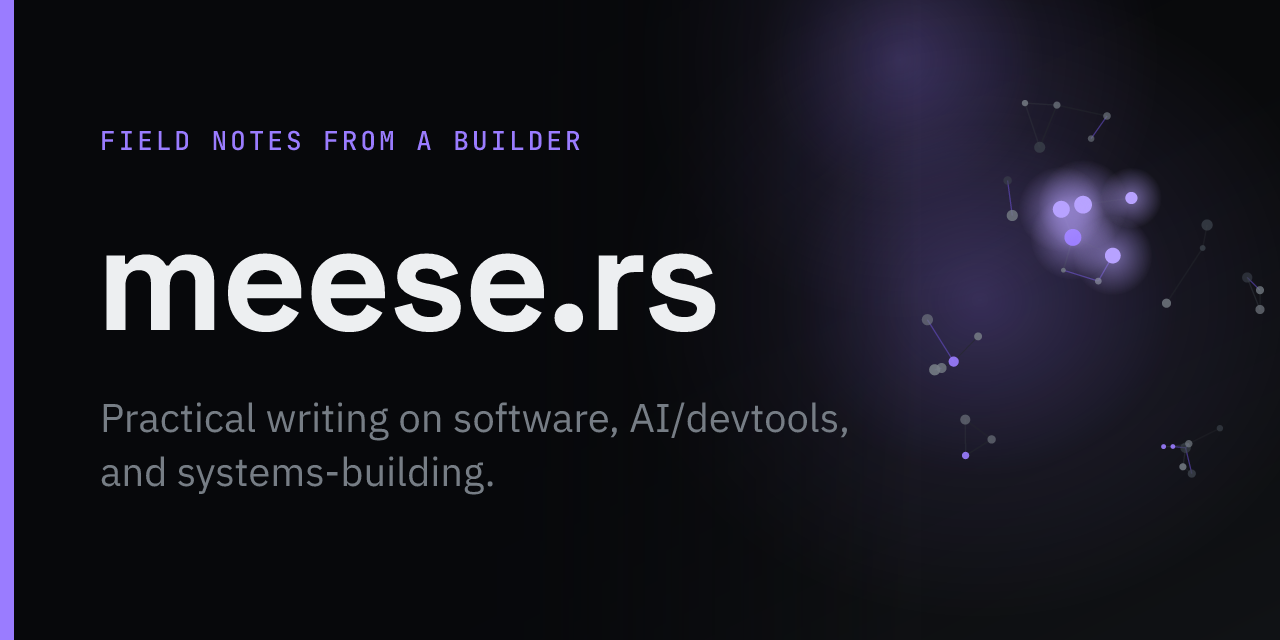
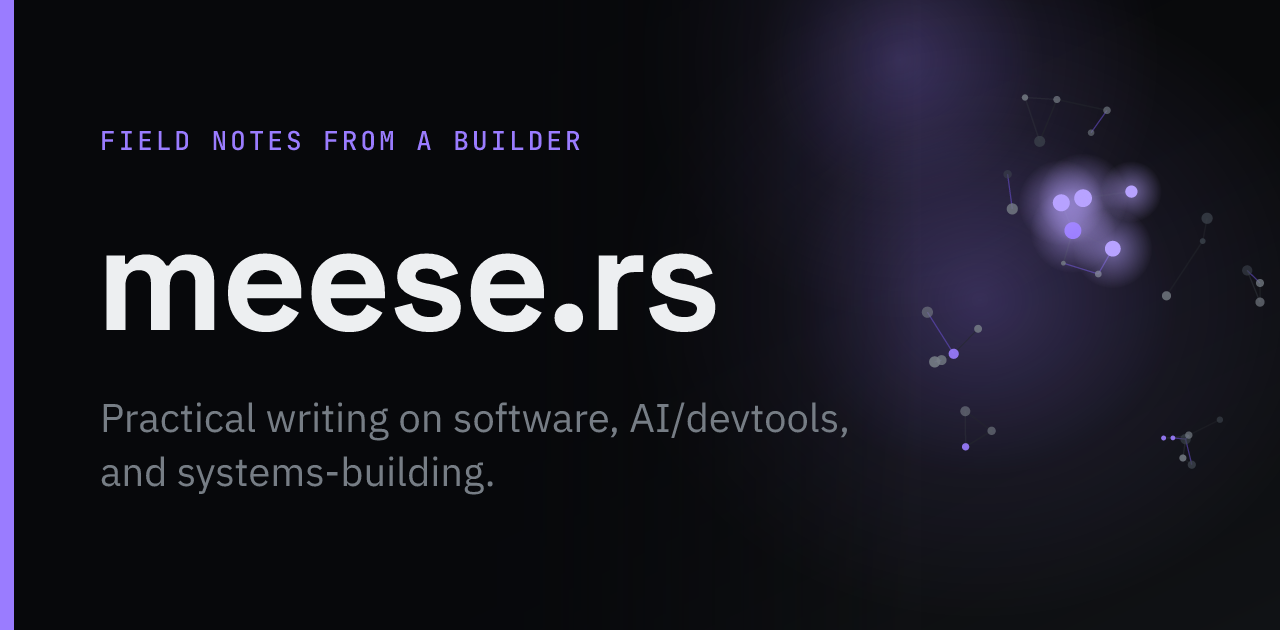
fix(seo): render hero social card at 1280x630
Some OG validators expect the 1.91:1 standard height (630), not GitHub's
1280x640. Regenerate the hero card and meta dimensions to match.

diff --git a/src/utils/seo.ts b/src/utils/seo.ts
@@ -27,7 +27,7 @@ export interface SeoMeta {
 const SITE_NAME = "meese.rs";
 
 /** Posts get a per-post card (1200x630, see src/pages/og/[...route].ts).
- *  Every other page uses the static hero card (1280x640). */
+ *  Every other page uses the static hero card (1280x630). */
 function ogImage(path: string): {
   image: string;
   imageWidth: number;
@@ -36,7 +36,7 @@ function ogImage(path: string): {
   const match = path.match(/^\/posts\/(.+?)\/?$/);
   return match
     ? { image: `/og/posts/${match[1]}.png`, imageWidth: 1200, imageHeight: 630 }
-    : { image: "/social.png", imageWidth: 1280, imageHeight: 640 };
+    : { image: "/social.png", imageWidth: 1280, imageHeight: 630 };
 }
 
 export function buildSeo(input: SeoInput): SeoMeta {